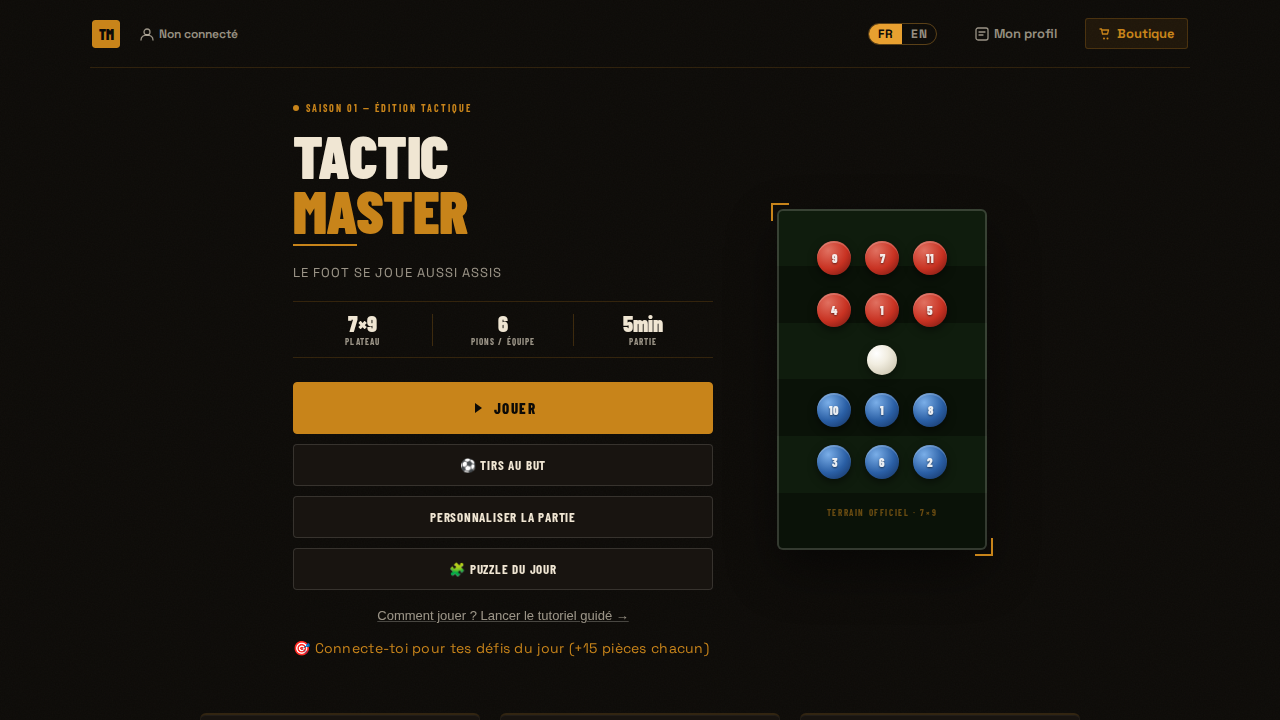
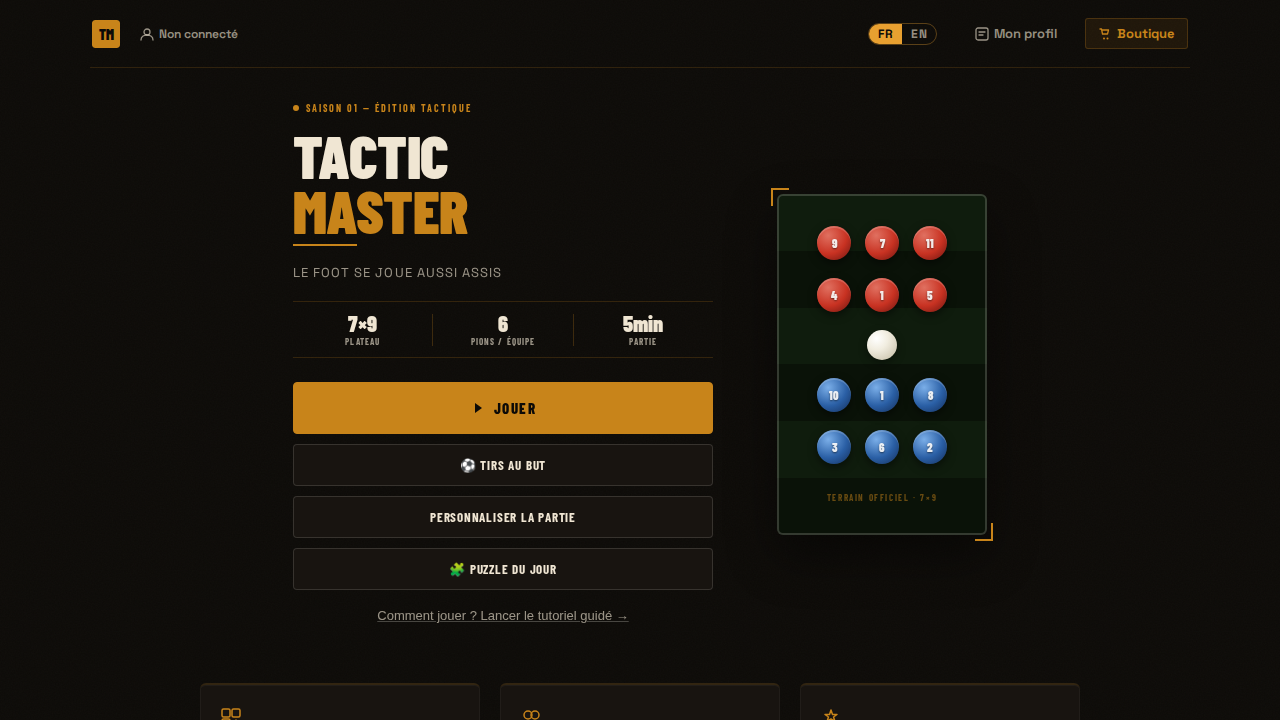
fix(défis): l'invitation à se connecter vit dans l'onglet Défis
Retour utilisateur sur #249 : le message « Connecte-toi pour tes défis du
jour » doit être là où le joueur cherche ses défis, pas sur l'accueil.

- L'accueil ne montre plus d'invite hors connexion (baseline visuelle
  accueil.png restaurée à sa version d'avant #249).
- L'onglet Défis affiche l'invitation quand il n'y a pas de session locale
  OU quand le serveur la refuse (RPC « Authentification requise », jeton
  périmé) — ce dernier cas s'affichait en « Défis indisponibles » opaque.
- Les autres erreurs du RPC sont désormais tracées en console pour rendre
  le diagnostic possible.

diff --git a/public/src/ui/accountUI.js b/public/src/ui/accountUI.js
@@ -66,18 +66,11 @@ export function initAccount({ els, getUser, setUser, refreshAdsForSession, refre
   async function refreshNotifications() {
     if (!getUser()) {
       if (els.profileNotifBadge) els.profileNotifBadge.style.display = 'none';
-      // Visiteur anonyme : les défis du jour n'existent que connecté. Plutôt
-      // que de ne rien montrer (le joueur ne peut pas deviner que la
-      // fonctionnalité existe), l'accueil invite à se connecter — le clic
-      // ouvre directement la connexion.
-      if (els.dailyHint) {
-        els.dailyHint.textContent = t('🎯 Connecte-toi pour tes défis du jour (+15 pièces chacun)');
-        els.dailyHint.style.cursor = 'pointer';
-        els.dailyHint.classList.remove('hidden');
-      }
+      // Visiteur anonyme : pas de rappel de défis sur l'accueil — c'est
+      // l'onglet Défis du profil qui porte l'invitation à se connecter.
+      if (els.dailyHint) els.dailyHint.classList.add('hidden');
       return;
     }
-    if (els.dailyHint) els.dailyHint.style.cursor = '';
     try {
       const [friendships, offers, challenges] = await Promise.all([
         fetchMyFriendships().catch(() => ({ pendingReceived: [] })),
@@ -340,12 +333,6 @@ export function initAccount({ els, getUser, setUser, refreshAdsForSession, refre
     els.accountBtn?.addEventListener('click', () => {
       renderAccountOverlayContent();
       els.accountOverlay.classList.add('show');
-    });
-
-    // L'invite « Connecte-toi pour tes défis du jour » de l'accueil mène à la
-    // connexion. Connecté, le rappel affiche les défis restants : rien à ouvrir.
-    els.dailyHint?.addEventListener('click', () => {
-      if (!getUser()) openAccountOverlay('signin');
     });
 
     els.accountCloseBtn?.addEventListener('click', () => {

diff --git a/public/src/ui/profileUI.js b/public/src/ui/profileUI.js
@@ -401,6 +401,14 @@ export function initProfile(deps) {
 
   async function loadChallengesPanel(deps) {
     els.challengesList.innerHTML = _skeletonCards(3);
+    // Les défis du jour n'existent que connecté : l'onglet le dit lui-même,
+    // qu'il n'y ait pas de session locale OU que le serveur la refuse (jeton
+    // périmé — le RPC lève alors « Authentification requise »).
+    const connectNote = '<p class="profile-empty-note">🎯 Connecte-toi pour tes défis du jour (+15 pièces chacun)</p>';
+    if (!deps.getCurrentUser()) {
+      els.challengesList.innerHTML = connectNote;
+      return;
+    }
     try {
       const challenges = await deps.fetchTodayChallenges();
       if (!challenges || challenges.length === 0) {
@@ -432,7 +440,14 @@ export function initProfile(deps) {
         els.challengesList.appendChild(card);
       });
     } catch (err) {
-      els.challengesList.innerHTML = '<p class="profile-empty-note">Défis indisponibles pour le moment.</p>';
+      if (/authentification requise/i.test(err?.message || '')) {
+        els.challengesList.innerHTML = connectNote;
+      } else {
+        // Trace la vraie cause : « indisponibles » seul rendait tout
+        // diagnostic impossible (réseau ? RPC ? migration ?).
+        console.error('Défis non chargés :', err);
+        els.challengesList.innerHTML = '<p class="profile-empty-note">Défis indisponibles pour le moment.</p>';
+      }
     }
   }
 